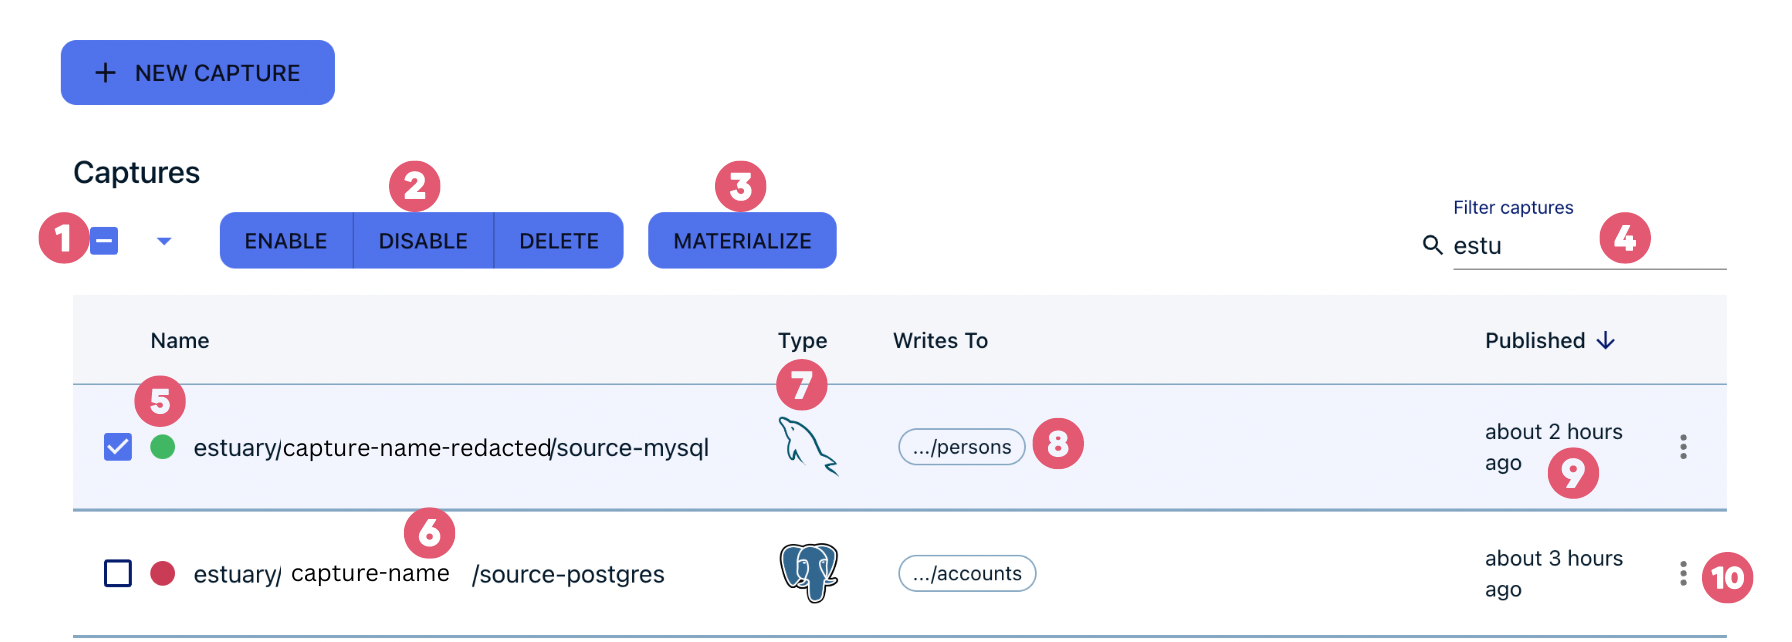
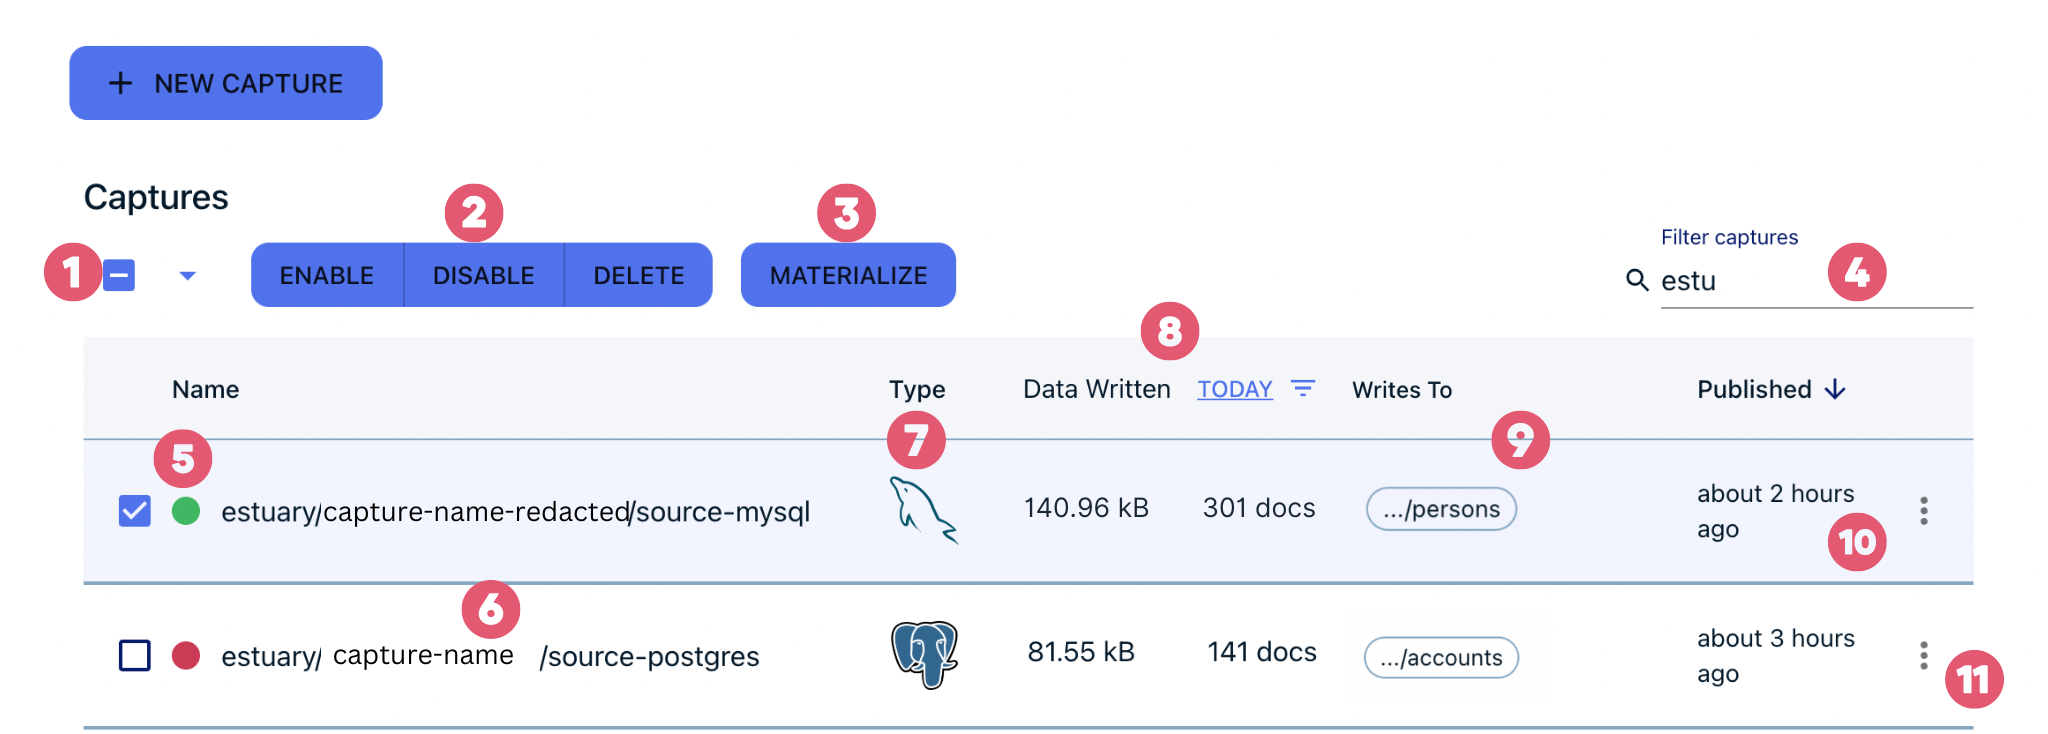
first draft

diff --git a/site/docs/concepts/web-app.md b/site/docs/concepts/web-app.md
@@ -66,7 +66,7 @@ You use the table to monitor your captures.
 
 **2:** Enable, Disable, and Delete buttons. These actions will be applied to the selected table rows. Choose **Disable** to temporarily pause the flow of data, **Enable** to resume, and **Delete** to permanently remove the capture(s).
 
-**3:** Materialize button. When you click this button, you're directed to the **Create materializations** page.
+**3:** Materialize button. When you click this button, you're directed to the **Create Materializations** page.
 All the collections of the selected capture(s) will be added to the materialization.
 
 **4:** Filter captures. Type a catalog prefix, unique capture name, or connector name to return captures that match your query.
@@ -88,11 +88,16 @@ you can find it by filtering for `acmeCo*source-postgres`.
 
 **7:** Capture type. The icon shows the type of source system data is captured from.
 
-**8:** Associated collections. The **Writes to** column shows all the collections to which the capture writes data. For captures with a large number of collections, hover over this column and scroll to view the full list.
+**8:** Capture [statistics](./advanced/logs-stats.md#statistics). The **Data Written** column shows the total amount of data, in bytes and in [documents](./collections.md#documents),
+that the capture has written to its associated collections within a configurable time interval.
+Click the time interval in the header to select from **Today**, **Yesterday**, **This Week**, **Last Week**, **This Month**,
+or **Last Month**.
 
-**9:** Publish time. Hover over this value to see the exact time the capture was first published.
+**9:** Associated collections. The **Writes to** column shows all the collections to which the capture writes data. For captures with a large number of collections, hover over this column and scroll to view the full list.
 
-**10:** Options. Choose to **View Details** or **Edit Specification**.
+**10:** Publish time. Hover over this value to see the exact time the capture was first published.
+
+**11:** Options. Choose to **View Details** or **Edit Specification**.
 
 ### Detail view
 
@@ -155,20 +160,37 @@ You can proceed to the materialization, or opt to exit to a different page of th
 ## Collections page
 
 The **Collections** page shows a read-only table of [collections](./collections.md) to which you have access.
-You can view each collection's specification and see a sample of its data.
+The table has many of the same features as the **Captures** table, with several important distinctions
+that are called out in the image below.
+
+You can use the table to view each collection's specification and see a sample of its data.
 This can help you verify that collection data was captured as expected and that you'll be able to materialize it how you want, and troubleshoot it necessary.
 
-To reveal the **Specification** and **Data Preview** sections, expand **Details** next to a collection name.
+![](<./webapp-images/collections-page.png>)
 
-The **Specification** section shows the collection specification as JSON in a read-only editor.
+**1:** Shard status indicator. If the collection does not contain a [derivation](./README.md#derivations), the indicator should always show green, and hover text will say "Collection."
+In the event that the server cannot be reached, the indicator will show "Unknown" status (black in light mode and white in dark mode).
+
+  If the collection contains a derivation, the status of the derivation's primary task [shard](./advanced/shards.md) will be indicated:
+
+  * **Primary (Green)**: Data is actively flowing through the derivation.
+  * **Pending (Yellow)**: The derivation is attempting to re-connect.
+  * **Failed (Red)**: The derivation has failed with an unrecoverable error.
+  * **Disabled (Hollow circle)**: The derivation is disabled.
+  * **Unknown (Black when app is in light mode; white when app is in dark mode)**: The web app is unable to determine shard status. Usually, this is due to a temporary connection error.
+
+**2:** Collection [statistics](./advanced/logs-stats.md#statistics). The **Data Written** column shows the total amount of data, in bytes and in [documents](./collections.md#documents),
+that has been written to each collection from its associated capture or derivation within a configurable time interval.
+Click the time interval in the header to select from **Today**, **Yesterday**, **This Week**, **Last Week**, **This Month**,
+or **Last Month**.
+
+**3:** To reveal the **Specification** and **Data Preview** sections, expand **Details** next to a collection name.
+
+**4:** The **Specification** section shows the collection specification as JSON in a read-only editor.
 (If you need to modify a collection, edit the [capture](#editing-captures) that it came from.)
 
-![](<./webapp-images/collections-view-schema.png>)
-
-The **Data Preview** section shows a sample of collection [documents](./collections.md#documents): the individual JSON files that comprise the collection.
+**5:** The **Data Preview** section shows a sample of collection [documents](./collections.md#documents): the individual JSON files that comprise the collection.
 Documents are organized by their collection key value. Click a key from the list to view its document.
-
-![](<./webapp-images/collections-view-data.png>)
 
 ## Materializations page
 
@@ -204,11 +226,16 @@ Unlike capture names, materialization names don't contain the connector name, bu
 
 **6:** Materialization type. The icon shows the type of destination system data is materialized to.
 
-**7:** Associated collections. The **Reads from** column shows all the collections from which the materialization reads data. For materializations with a large number of collections, hover over this column and scroll to view the full list.
+**7:** Materialization [statistics](./advanced/logs-stats.md#statistics). The **Data Read** column shows the total amount of data, in bytes and in [documents](./collections.md#documents),
+that the materialization has read from its associated collections within a configurable time interval.
+Click the time interval in the header to select from **Today**, **Yesterday**, **This Week**, **Last Week**, **This Month**,
+or **Last Month**.
 
-**8:** Publish time. Hover over this value to see the exact time the materialization was first published.
+**8:** Associated collections. The **Reads from** column shows all the collections from which the materialization reads data. For materializations with a large number of collections, hover over this column and scroll to view the full list.
 
-**9:** Options. Choose to **View Details** or **Edit Specification**
+**9:** Publish time. Hover over this value to see the exact time the materialization was first published.
+
+**10:** Options. Choose to **View Details** or **Edit Specification**.
 
 ### Detail view
 

diff --git a/site/docs/reference/working-logs-stats.md b/site/docs/reference/working-logs-stats.md
@@ -8,7 +8,38 @@ are useful for debugging and monitoring catalog tasks.
 
 ## Accessing logs and statistics
 
-You can access logs and statistics by materializing them to an external endpoint, or from the command line.
+You can access logs and statistics in the Flow web app, by materializing them to an external endpoint, or from the command line.
+
+### Logs and statistics in the Flow web app
+
+You can view a subset of logs and statistics for individual tasks in the Flow web app.
+
+#### Logs
+
+After you publish a new [capture](../guides/create-dataflow.md#create-a-capture) or [materialization](../guides/create-dataflow.md#create-a-materialization), a pop-up window appears that displays the task's logs.
+Once you close the window, you can't regain access to the full logs in the web app.
+For a complete view of logs, use [flowctl](#accessing-logs-and-statistics-from-the-command-line) or [materialize the logs collection](#accessing-logs-or-stats-by-materialization) to an outside system.
+
+However, if a task fails, you can view the logs associated with the error(s) that caused the failure.
+In the **Details** view of the published capture or materialization, click the name of its shard to display the logs.
+
+#### Statistics
+
+Two statistics are shown for each capture, collection, and materialization:
+
+* **Bytes Written or Read**.
+This corresponds to the `bytesTotal` [property of the stats collection](#transaction-information).
+* **Docs Written or Read**.
+This corresponds to the `docsTotal` [property of the stats collection](#transaction-information).
+
+These fields have slightly different meanings for each Flow entity type:
+
+* For captures, **Bytes Written** and **Docs Written** represent the total data written across all of the
+capture's associated collections.
+* For collections, **Bytes Written** and **Docs Written** represent the data written to the collection from
+its associated capture or derivation.
+* For materializations, **Bytes Read** and **Docs Read** represent the total data read from all of the
+materialization's associated collections.
 
 ### Accessing logs and statistics from the command line
 
